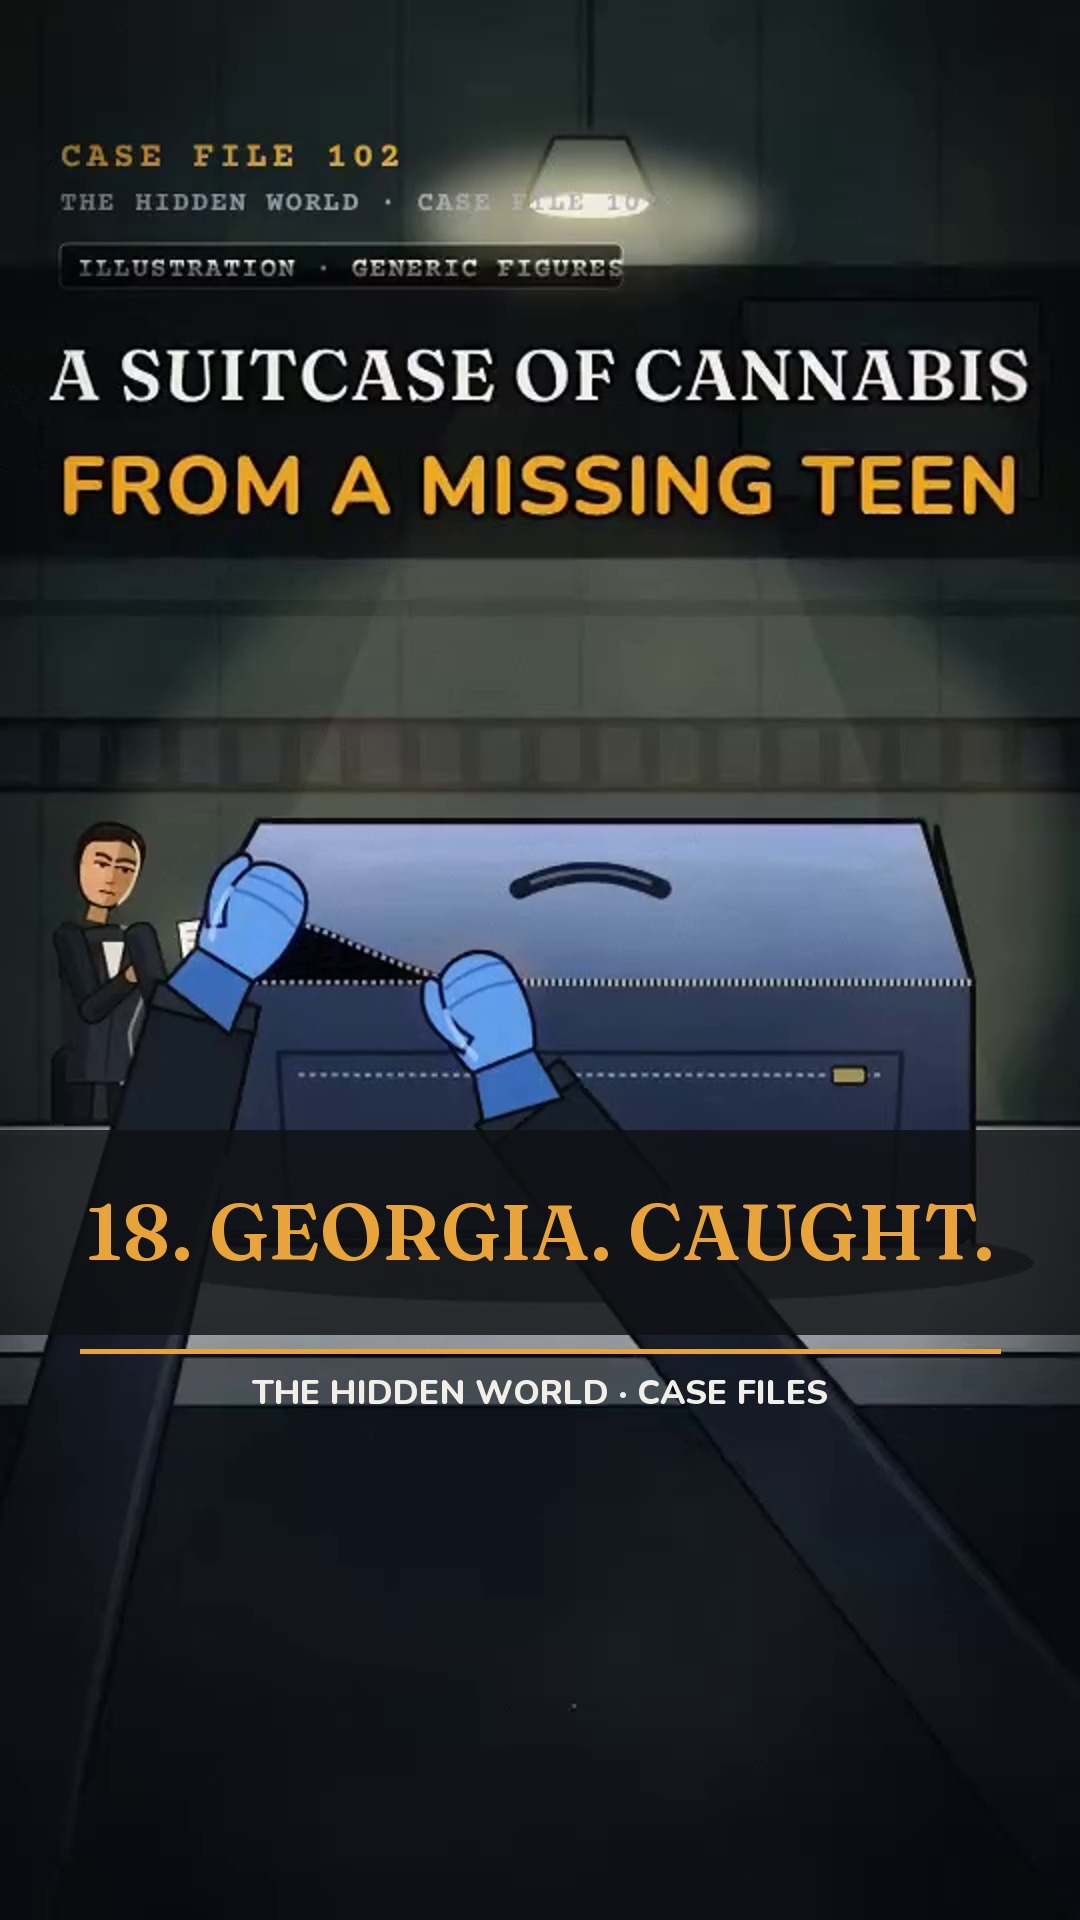
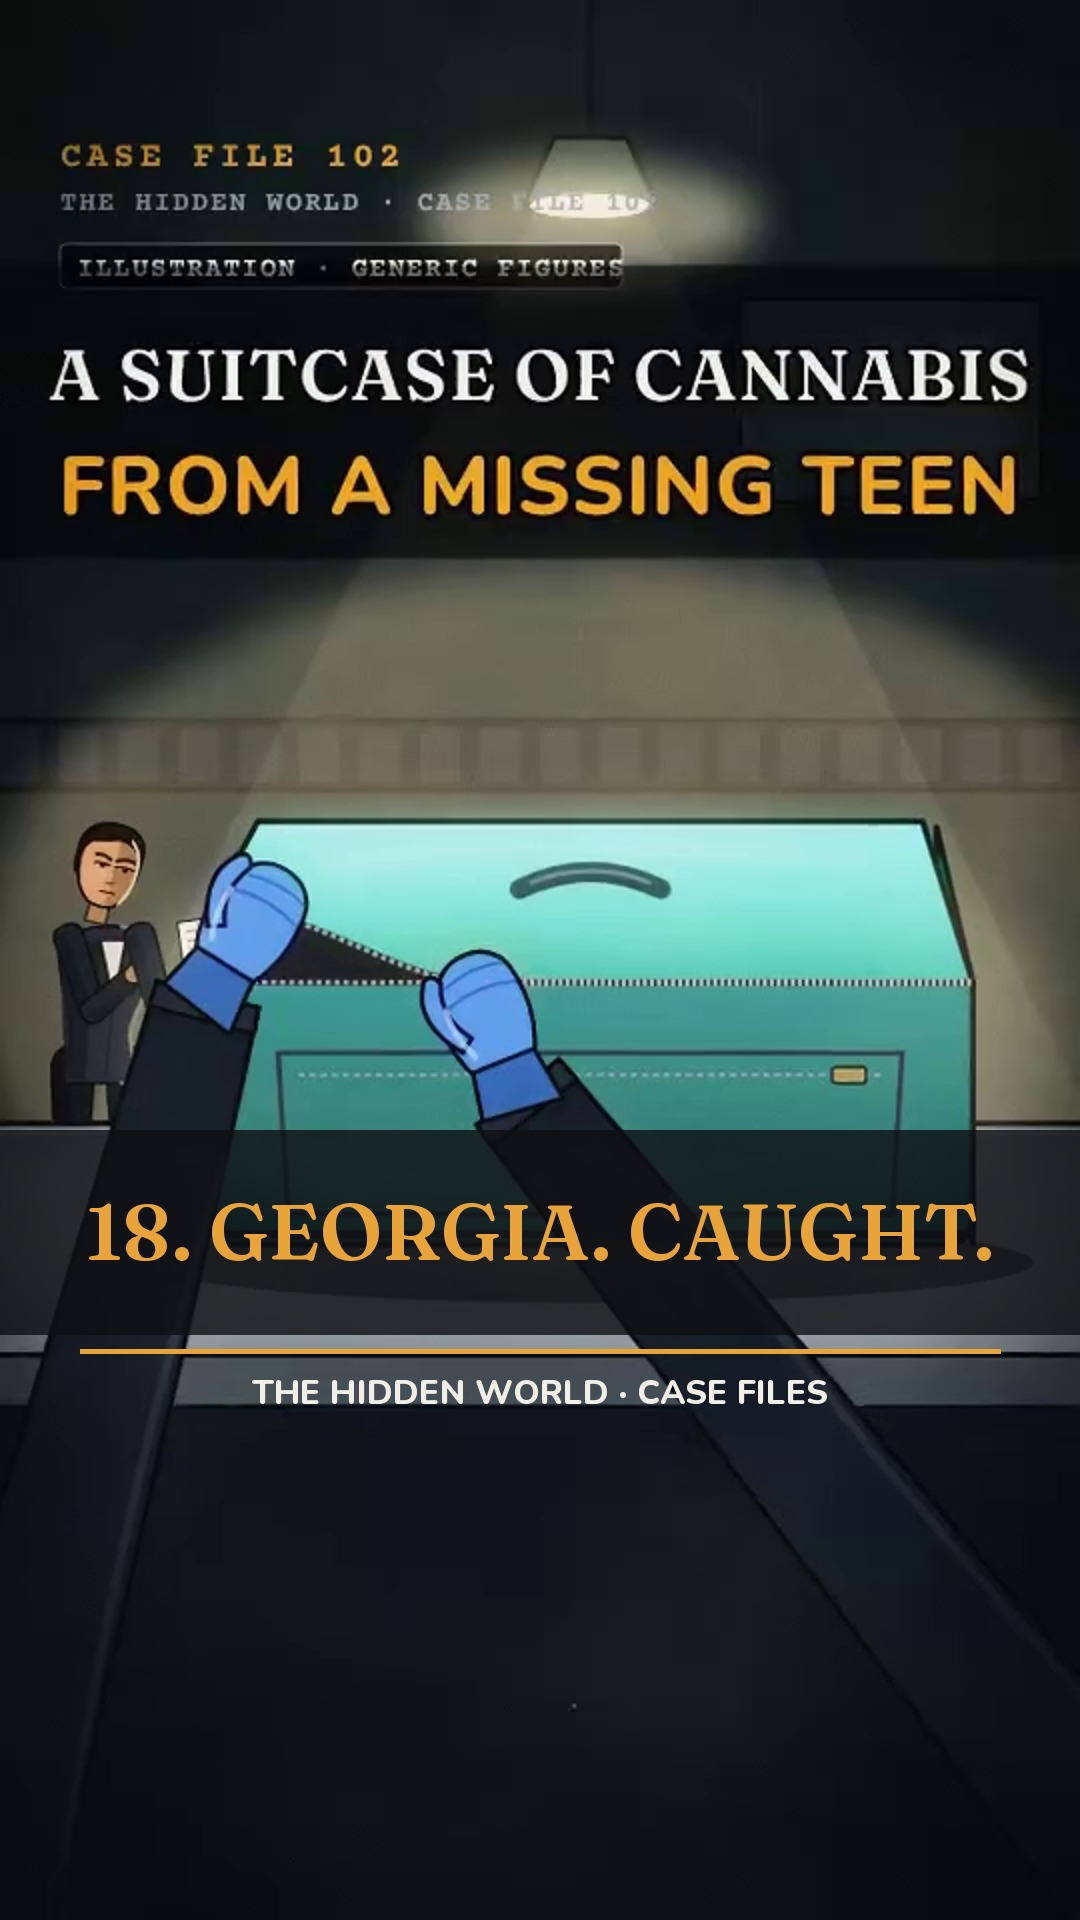
Case File 102: a missing teenager's suitcase (ONE SMUGGLER 2, engine v10): passive hook, fair send line, brighter frame 0
Claude-Session: https://claude.ai/code/session_0181YiZCGX4kUBAdb7SwkZ2H

Changed region(s): [[0.0, 0.2812, 1.0, 0.5938]]

diff --git a/renderer/scenes/tcv102-young-mule.js b/renderer/scenes/tcv102-young-mule.js
@@ -5,7 +5,7 @@
    (she had flown from Bangkok via Sharjah). She said a gang forced her to carry it; Thailand released airport CCTV and
    called that baseless. On 3 Nov 2025 she pleaded guilty under a plea agreement: time served (nearly six months) plus a
    500,000-lari fine her family paid. She flew home the next day.
-   Structure: frame 0 = THE HALF-REVEAL: close on a plain dark travel bag lying on a steel inspection bench under a
+   Structure: frame 0 = THE HALF-REVEAL: close on a plain teal canvas holdall (colour not sourced) lying on a steel inspection bench under a
    hanging lamp; two blue gloved hands (sleeves from the bottom corners) are unzipping it: the brass pull a third of the
    way along the front edge, the flap behind it lifted on a dark gap (the inside hidden); the camera already pushing in;
    a generic officer at the left behind the bench. On line 2 the zip runs on to two thirds. GOTCHA (cut closer): the zip
@@ -22,7 +22,7 @@
    brass pull and, once open, the green bricks.
    Content rules: she is a dark rim-lit silhouette only (NOT A LIKENESS), never labelled "the mule"; no family member is
    drawn; the officer and the judge are generic figures with no badge, patch, flag, emblem, agency name or insignia; no
-   weapon; no force. The bag's colour and brand are not sourced (a plain dark bag); the CCTV frame is our own drawing; the
+   weapon; no force. The bag's colour and brand are not sourced (a plain teal canvas holdall, chosen for readability); the CCTV frame is our own drawing; the
    travel card is our own typed graphic, not a boarding pass; no airline, airport sign, livery or logo.
    New environments (E.registerSets): ym102_bench (an airport inspection room), ym102_lounge (a departures lounge at
    night), ym102_gates (automated passport gates, high angle), ym102_court (a courtroom). */
@@ -37,7 +37,7 @@
   const TAG = 'ILLUSTRATION · GENERIC FIGURES';
   const TAG_SIL = 'ILLUSTRATION · SILHOUETTE · NOT A LIKENESS';
   const ACC = '#e8a33a', GLOW = '#fff1d6';
-  const BAG = '#36435c', BAG_D = '#232c3e', BAG_L = '#53658a', BAG_H = '#8ea2c8', LINING = '#1b2028';
+  const BAG = '#1f8580', BAG_D = '#135753', BAG_L = '#2fb0a8', BAG_H = '#9ae6dc', LINING = '#1b2028';
   const GLOVE = '#5b90d8', GLOVE_D = '#3a67ad', GLOVE_L = '#a6c8f2', SLEEVE = '#1f2630';
   const BRICK = '#7fae5a', BRICK_D = '#4c7a36', BRICK_L = '#c4e3a2', SLAB = '#3e2a1c', SLAB_L = '#6a4a32';
   const rad = d => d * Math.PI / 180;
@@ -151,6 +151,7 @@
     g += wash(pz[0], pz[1], 50, 30, ACC, 0.35) + `<rect x="${f1(pz[0] - 18)}" y="${f1(pz[1] - 12)}" width="36" height="22" rx="5" fill="#c9922c" stroke="${INK}" stroke-width="4"/>` +
       `<path d="M${f1(pz[0] - 9)} ${f1(pz[1] + 8)} L${f1(pz[0] - 12)} ${f1(pz[1] + 48)} L${f1(pz[0] + 12)} ${f1(pz[1] + 48)} L${f1(pz[0] + 9)} ${f1(pz[1] + 8)} Z" fill="${ACC}" stroke="${INK}" stroke-width="4"/>`;
     if (lit > 0.01) g += wash(0, -60, 420, 240, GLOW, f1(0.22 * lit));
+    g += wash(0, 20, 470, 230, '#fff2d8', 0.16);   // the lamp pool on the holdall: the one bright thing in the frame
     // the hands: the left one holds the lifted flap's corner (and lifts the lid when it opens), the right one the pull
     const j = Math.sin(t * 7) * 2;
     const lc = lidEdge(-FX + 40, zz, L, oo);
@@ -177,7 +178,7 @@
     // an airport inspection room: grey-green wall panels, a dark luggage belt behind, a blank notice board, a hanging
     // lamp throwing a warm cone onto the bench (the bench, bag and hands are props)
     ym102_bench(ctx, o = {}) {
-      let back = `<rect x="-500" y="-400" width="${W + 1000}" height="2400" fill="#26312f"/>`;
+      let back = `<rect x="-500" y="-400" width="${W + 1000}" height="2400" fill="#1d2524"/>`;
       for (let x = -500; x < W + 500; x += 180) back += `<path d="M${x} -400 L${x} 2000" stroke="#1f2927" stroke-width="5"/>`;
       back += `<rect x="-500" y="600" width="${W + 1000}" height="16" fill="#1d2624"/>`;
       let belt = `<rect x="-500" y="720" width="${W + 1000}" height="70" fill="#15191c" stroke="${INK}" stroke-width="5"/>`;
@@ -185,7 +186,7 @@
       belt += `<rect x="740" y="300" width="300" height="200" rx="8" fill="#344240" stroke="${INK}" stroke-width="4"/><rect x="770" y="330" width="240" height="140" fill="#3e4e4b" opacity="0.8"/>`;
       const lamp = `<path d="M590 -400 L590 140" stroke="#151a1e" stroke-width="6"/><path d="M524 206 L656 206 L626 140 L554 140 Z" fill="#3c4a44" stroke="${INK}" stroke-width="5"/>` +
         `<ellipse cx="590" cy="208" rx="60" ry="12" fill="#fff4d8"/>` + wash(590, 222, 170, 60, '#fff1cf', 0.5) +
-        `<path d="M536 210 L644 210 L1080 1300 L100 1300 Z" fill="#fff1cf" opacity="0.06"/>` + wash(590, 900, 480, 380, '#ffe8c0', 0.16);
+        `<path d="M536 210 L644 210 L1180 1300 L0 1300 Z" fill="#fff1cf" opacity="0.08"/>` + wash(590, 980, 620, 420, '#ffe8c0', 0.3);
       return { light: { dir: -1, rim: '#fff1cf', key: '#ece4d4' }, layers: [[0.1, back], [0.35, belt], [0.9, lamp]] };
     },
     // a departures lounge at night: tall windows on a dark apron (runway lights, a plain unmarked tail far off), a row

diff --git a/series/true-crime-cinematic/slate/tcv102-young-mule.py b/series/true-crime-cinematic/slate/tcv102-young-mule.py
@@ -1,7 +1,7 @@
 """Case File 102 (cinematic, premium look, ENGINE V10 "ONE SMUGGLER": one case, one person, beats hook -> gotcha ->
 person -> consequence -> callback; the half-reveal opening and the making-verb hook from v9; the loop; Kokoro am_fenrir
 with directed delivery; the NEXT FILE sign-off). Lane: customs (an airport luggage inspection).
-Frame 0 = THE HALF-REVEAL: close on a plain dark travel bag lying on a steel inspection bench under a lamp; two blue
+Frame 0 = THE HALF-REVEAL: close on a plain teal canvas holdall (colour not sourced) lying on a steel inspection bench under a lamp; two blue
 gloved hands are unzipping it, the zip a third of the way along, the flap lifted on a dark gap (the inside hidden); the
 camera already pushing in. On line 2 the zip runs on to two thirds; on the gotcha ("unzipped", before 9 s) the lid flips
 open on wrapped green bricks and dark slabs (ILLUSTRATION: the packing is not sourced) with the single impact.
@@ -32,12 +32,12 @@ def build(h):
         # HOOK (frame 0, the half-reveal): the inspection bench; close on the travel bag; the gloved hands draw the zip
         # from a third open, the flap lifted on darkness, the camera already pushing in; on line 2 the zip runs on to two
         # thirds and the officer looks up; the place label
-        S("s01_hook", "ym102_hook", [N("A missing teenager stuffed her suitcase with cannabis.", tone="hook", pause_before=0.0, speed=1.192),
+        S("s01_hook", "ym102_hook", [N("A missing teenager's suitcase was stuffed with cannabis.", tone="hook", pause_before=0.0, speed=1.2213),
                                      N("12 kilos of weed. 2 of hashish.", tone="confident")],
           "tension", ["K_hook", "K_kilos"],
           sfx=[fx(0.0, "sub", 0.4), fx(0.0, "click", 0.2), fw(0, 7, "thump", 0.2, 0.42),
-               fw(1, 0, "rasp", 0.18, -0.32), fw(1, 6, "thud", 0.2, 0.42)],
-          emph=["missing", "teenager", "stuffed", "cannabis.", "12", "kilos", "hashish."], min_d=5.3, pad=0.05),
+               fw(1, 0, "click", 0.16, -0.2), fw(1, 6, "thud", 0.2, 0.42)],
+          emph=["missing", "teenager's", "suitcase", "stuffed", "cannabis.", "12", "kilos", "hashish."], min_d=5.3, pad=0.05),
         # GOTCHA: the same bench, closer; the zip reaches the corner and on "unzipped" the lid flips open on the wrapped
         # green bricks and dark slabs (the single impact); the find label
         S("s02_open", "ym102_open", [N("A bag check unzipped it. Tbilisi airport, Georgia.", tone="reveal", pause_before=0.3)],
@@ -111,7 +111,7 @@ def build(h):
     ]
     C = h.claim
     claims = [
-        C("K_hook", "An 18-year-old British woman who had been reported missing in Thailand was found to have cannabis in her travel bag on arrival in Georgia (marijuana and hashish in her luggage). Narration (the owner's chosen opening #1): 'A missing teenager stuffed her suitcase with cannabis.' Headline 'A SUITCASE OF CANNABIS / FROM A MISSING TEEN'. Who packed the bag is not established; she pleaded guilty to smuggling the drugs.",
+        C("K_hook", "An 18-year-old British woman who had been reported missing in Thailand was found to have cannabis in her travel bag on arrival in Georgia (marijuana and hashish in her luggage). Narration (revised opening, passive so it does not say who packed the bag): 'A missing teenager's suitcase was stuffed with cannabis.' Headline 'A SUITCASE OF CANNABIS / FROM A MISSING TEEN'. Who packed the bag is not established; she pleaded guilty to smuggling the drugs.",
           ["mia", "ap", "reuters", "indep", "nightly"]),
         C("K_kilos", "A luggage inspection found about 12 kg of marijuana and about 2 kg (2.068 kg) of hashish in her travel bag. Narration: 'Twelve kilos of weed. Two of hashish.' Label '12 KG MARIJUANA · 2 KG HASHISH'. The wrapped bricks and slabs are an illustration; the packing is not sourced.",
           ["mia", "ap", "reuters", "civil"]),
@@ -176,12 +176,12 @@ def build(h):
                       "until": round(end_start - 0.35, 2) if end_start else 26.0}   # gone before the end scene
     # the end card from ~0.2 s into the end scene (`from` counts back from the end of the video)
     ep["end_title"] = {"lines": [{"text": "FORCED OR GUILTY? \U0001F447"}, {"text": "HER STORY OR THE CCTV?", "colour": "#e8a33a"},
-                                 {"text": "SEND TO THE MATE WHO'D CARRY A STRANGER'S BAG", "fs": 30},
+                                 {"text": "SEND TO THE MATE WHO'S OFF TO THAILAND", "fs": 30},
                                  {"text": "NEXT FILE: THE CAPTAIN WHO LEFT", "fs": 34, "colour": "#e8a33a"},
                                  {"text": "THE HIDDEN WORLD · CASE FILE 102", "fs": 30}],
                        "from": round(total - end_start - 0.2, 2) if (total and end_start) else 2.4, "y": 300, "fs": 60}
     ep["narrator_profile"] = {"provider": "kokoro", "kokoro_voice": "am_fenrir", "energy": 0.6, "directed": True,
-                              "pronounce": {"Tbilisi": "Tibilisi", "Culley": "Cully", "CCTV": "C C T V"}}
+                              "pronounce": {"A": "Uh", "Tbilisi": "Tibilisi", "Culley": "Cully", "CCTV": "C C T V"}}
     ep["score"] = {"root_hz": 138.59, "bpm": 84,
                    "cliff": {"scene": "s05_court", "word": [0, 2], "at": 0.0}}
     ep["content_notes"] = ("Tone: serious and respectful; the irony is in the facts (a missing-person search that ended at an airport "
@@ -191,8 +191,8 @@ def build(h):
                            "by Thailand's response (the CCTV, 'baseless'); no torture or injury is shown or described in detail. The pregnancy "
                            "is not mentioned. No family member is named, drawn or quoted; 'her family' only. The officer and the judge are "
                            "generic figures in plain clothing/robe with no badge, patch, flag, agency name or insignia; no weapon; no force. "
-                           "The bench, lounge, passport gates and courtroom are illustrations, not reported scenes; the bag is a plain dark bag "
-                           "(colour and brand not sourced) and the wrapped bricks/slabs inside are illustrative (the packing is not sourced); "
+                           "The bench, lounge, passport gates and courtroom are illustrations, not reported scenes; the bag is a plain teal canvas holdall "
+                           "(colour and brand not sourced; chosen for readability) and the wrapped bricks/slabs inside are illustrative (the packing is not sourced); "
                            "the CCTV frame is our own drawing, not the released footage; the travel card is our own typed graphic, not a "
                            "boarding pass; no airline, airport sign or logo is copied. No dialogue or quotation card. Facts verified " + VER + ".")
     ep["legal_status_verified"] = VER

diff --git a/episodes/tcv102-young-mule/post.md b/episodes/tcv102-young-mule/post.md
@@ -2,8 +2,8 @@ CAPTION: Reported missing in Thailand, she turned up at a Georgian airport with 
 Georgia's Interior Ministry says a luggage check at Tbilisi airport on 10 May 2025 found about 12 kg of marijuana and 2 kg of hashish in Bella Culley's bag; she said a gang forced her to carry it, and Thailand released airport CCTV and called that baseless. In November 2025 she pleaded guilty under a plea deal and was sentenced to time served plus a fine her family paid.
 Forced or guilty: her story or the CCTV?
 HASHTAGS: #bellaculley #tbilisi #customs #smuggling #truecrime
-ALT TEXT: Illustrated reel: blue-gloved hands unzip a plain dark travel bag on an airport inspection bench and the lid opens on wrapped green bricks and dark slabs; a silhouette (not a likeness) in a night departures lounge, then walking through passport gates seen on CCTV, then standing in a courtroom dock; the bag is zipped back to where it began.
+ALT TEXT: Illustrated reel: blue-gloved hands unzip a plain teal canvas holdall on an airport inspection bench and the lid opens on wrapped green bricks and dark slabs; a silhouette (not a likeness) in a night departures lounge, then walking through passport gates seen on CCTV, then standing in a courtroom dock; the bag is zipped back to where it began.
 SEED COMMENT: Her story, for me. Walking calmly past a camera doesn't prove nobody was pressuring her, and a plea deal is the quickest way out of a foreign jail either way.
-PINNED: Send this to the mate who'd carry a stranger's bag 🧳 Vote: 1 = forced, 2 = guilty, 3 = a bit of both 👇 Next file: The Captain Who Left.
+PINNED: Send this to the mate who's off to Thailand 🧳 Vote: 1 = forced, 2 = guilty, 3 = a bit of both 👇 Next file: The Captain Who Left.
 POST WHEN: The day after Case File 101, 4 pm Sydney (AEDT), the account's usual slot; the second of the 101–103 run.
 Switch on Instagram's AI label before posting.
